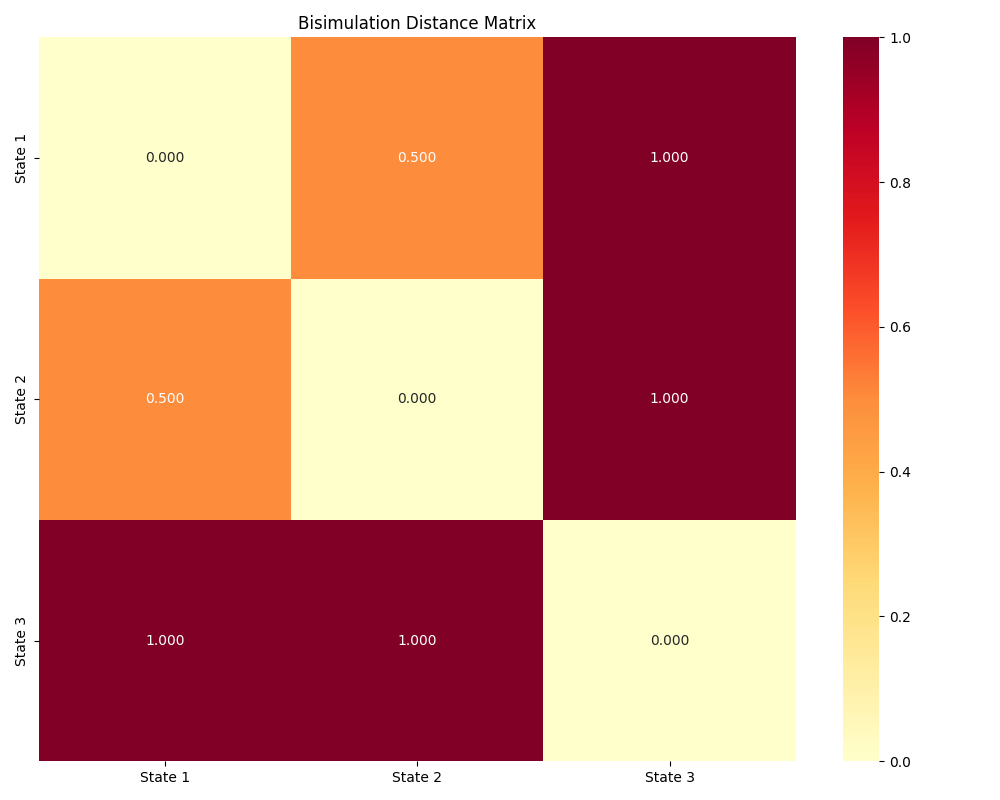
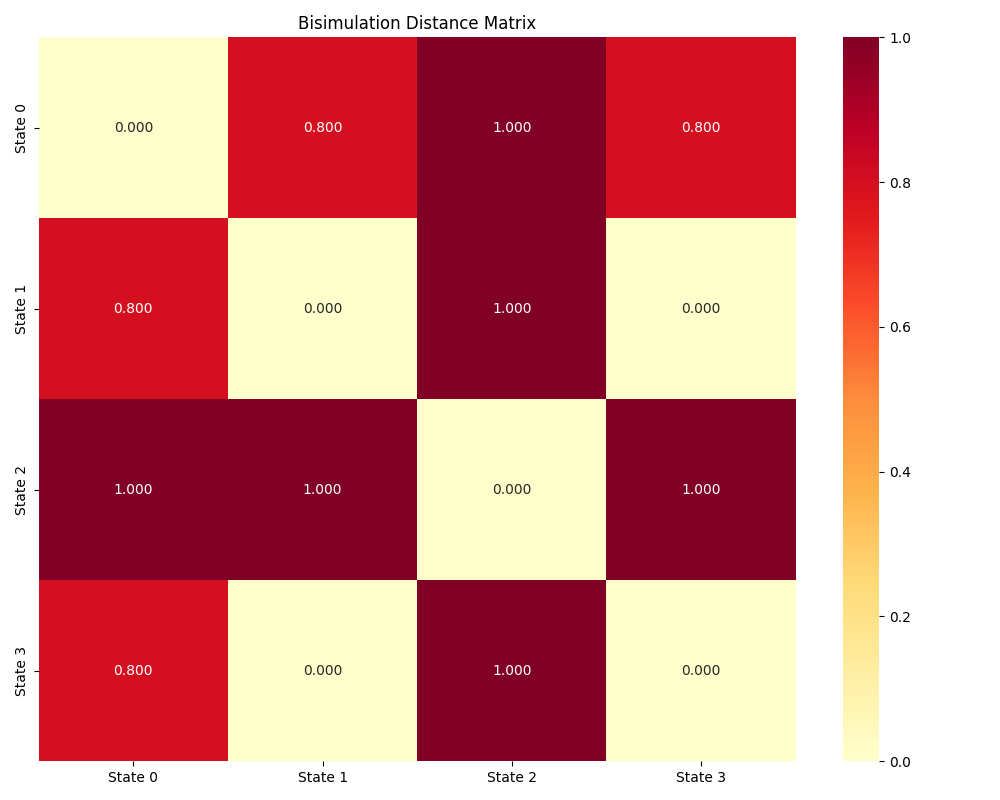
added distance gui and also fixed most diff states

diff --git a/app.py b/app.py
@@ -2,7 +2,6 @@ import streamlit as st
 import numpy as np
 import seaborn as sns
 import matplotlib.pyplot as plt
-from io import StringIO
 from demo import (
     bisimulation_distance_matrix,
     input_probabilistic_transition_system,
@@ -10,20 +9,66 @@ from demo import (
 )
 
 st.set_page_config(page_title="PTS Bisimulation Tool", layout="wide")
-st.title("📊 Probabilistic Bisimulation Distance Calculator")
+st.title("📊 Distance Calculator for Diss")
 
-uploaded_file = st.file_uploader("Upload your transition matrix file (.txt)", type="txt")
+input_mode = st.radio("Select Input Mode:", ["Upload File", "Manual Input"])
 
-if uploaded_file:
-    content = uploaded_file.read().decode("utf-8")
-    temp_path = "temp_input.txt"
-    with open(temp_path, "w") as f:
-        f.write(content)
+T = Term = labels = None
 
+if input_mode == "Upload File":
+    uploaded_file = st.file_uploader("Upload your transition matrix file (.txt)", type="txt")
+    if uploaded_file:
+        content = uploaded_file.read().decode("utf-8")
+        temp_path = "temp_input.txt"
+        with open(temp_path, "w") as f:
+            f.write(content)
+        try:
+            T, Term, labels = input_probabilistic_transition_system(filename=temp_path, use_file=True)
+            st.success("File successfully loaded and parsed.")
+        except Exception as e:
+            st.error(f"Error loading file: {e}")
+
+elif input_mode == "Manual Input":
+    st.markdown("### Define Transition Matrix")
+    n = st.number_input("Number of states", min_value=2, max_value=10, step=1)
+    matrix = []
+    valid = True
+    all_labels_filled = True  # <-- declare early to avoid NameError
+
+    for i in range(n):
+        row_input = st.text_input(f"Transition probabilities from State {i+1}", key=f"row_{i}")
+        try:
+            row_vals = list(map(float, row_input.strip().split()))
+            if len(row_vals) != n or not np.isclose(sum(row_vals), 1.0):
+                raise ValueError()
+            matrix.append(row_vals)
+        except:
+            st.error(f"Row {i+1} must have {n} numbers summing to 1.")
+            valid = False
+
+    Term = [st.selectbox(f"Is State {i+1} terminating?", [0, 1], key=f"term_{i}") for i in range(n)]
+
+    if valid:
+        T = np.array(matrix)
+        labels = {}
+        for i in range(n):
+            for j in range(n):
+                if T[i][j] > 0:
+                    label = st.text_input(f"Label for transition from S{i+1} to S{j+1}", key=f"label_{i}_{j}")
+                    if not label:
+                        all_labels_filled = False
+                    else:
+                        labels[(i, j)] = label
+
+        if not all_labels_filled:
+            st.warning("Please fill in all transition labels to view distance matrix and visualization.")
+        else:
+            st.success("Manual input accepted.")
+
+
+# ---- Main Calculation ---- #
+if T is not None and Term is not None and (input_mode == "Upload File" or all_labels_filled):
     try:
-        T, Term, labels = input_probabilistic_transition_system(filename=temp_path, use_file=True)
-
-        st.success("File successfully loaded and parsed.")
         D = bisimulation_distance_matrix(T, Term)
 
         st.subheader("Distance Matrix")
@@ -41,16 +86,18 @@ if uploaded_file:
         st.write(f"Maximum Distance: {np.max(D):.3f}")
         st.write(f"Average Distance: {np.mean(D):.3f}")
 
+        # Find most different states before modifying diagonal
+        max_idx = np.unravel_index(np.argmax(D), D.shape)
+        st.write(f"Most different states: S{max_idx[0]+1} and S{max_idx[1]+1} (distance: {D[max_idx]:.3f})")
+
+        # Now modify diagonal for finding most similar states
         np.fill_diagonal(D, np.inf)
         min_idx = np.unravel_index(np.argmin(D), D.shape)
-        max_idx = np.unravel_index(np.argmax(D), D.shape)
-
         st.write(f"Most similar states: S{min_idx[0]+1} and S{min_idx[1]+1} (distance: {D[min_idx]:.3f})")
-        st.write(f"Most different states: S{max_idx[0]+1} and S{max_idx[1]+1} (distance: {D[max_idx]:.3f})")
 
         st.markdown("### Bisimulation Structure Visualization")
         graphviz_src = generate_graphviz_source(T, Term, labels)
         st.graphviz_chart(graphviz_src)
 
     except Exception as e:
-        st.error(f"Error parsing or computing: {e}")
+        st.error(f"Computation error: {e}")

diff --git a/commandline.py b/commandline.py
@@ -174,33 +174,40 @@ def compute_minimized_transition_matrix(transition_matrix, equivalence_classes, 
     return minimized_T, minimized_labels
 
 
-def visualize_probabilistic_transition_system(matrix, terminating_classes, transition_labels, filename):
+def visualize_probabilistic_transition_system(matrix, terminating_classes, transition_labels, filename, is_minimized=False):
     """
     Visualize the Probabilistic Transition System (PTS) with correct label formatting.
+    is_minimized: if True, use "Class" terminology, otherwise use "State"
     """
     dot = Digraph(format='png')
+    prefix = "Class" if is_minimized else "State"
 
     # Add nodes
     for i in range(len(matrix)):
         if terminating_classes[i]:
-            dot.node(f"Class {i}", f"Class {i}", shape='circle', style='filled', peripheries='2', color='lightblue')  
+            dot.node(f"{prefix} {i}", f"{prefix} {i}", shape='circle', style='filled', peripheries='2', color='lightblue')  
         else:
-            dot.node(f"Class {i}", f"Class {i}", shape='circle', style='filled', color='lightgreen')  
+            dot.node(f"{prefix} {i}", f"{prefix} {i}", shape='circle', style='filled', color='lightgreen')  
 
     # Add edges with transition probabilities and labels
     for (i, j), label in transition_labels.items():
+        # Skip drawing outgoing edges from terminating states
+        if terminating_classes[i]:
+            continue
+
         prob = matrix[i][j]
-        
+
         # Ensure label is treated correctly (single string or list of strings)
-        if isinstance(label, str):  # If it's a string, use as is
+        if isinstance(label, str):
             label_text = label
-        elif isinstance(label, list):  # If it's a list, join properly
+        elif isinstance(label, list):
             label_text = ", ".join(label)
-        else:  # Fallback conversion
+        else:
             label_text = str(label)
 
-        dot.edge(f"Class {i}", f"Class {j}", label=f"{label_text} ({prob:.2f})")
+        dot.edge(f"{prefix} {i}", f"{prefix} {j}", label=f"{label_text} ({prob:.2f})")
 
+    # ✅ Ensure rendering and viewing the diagram
     dot.render(filename, view=True)
 
 if __name__ == "__main__":
@@ -223,16 +230,15 @@ if __name__ == "__main__":
     minimized_T, minimized_labels = compute_minimized_transition_matrix(transition_matrix, equivalence_classes, state_class_map, transition_labels)
 
     # Step 6: Visualization
-    visualize_probabilistic_transition_system(transition_matrix, terminating_vector, transition_labels, "original_PTS")
-    visualize_probabilistic_transition_system(minimized_T, list(class_termination_status.values()), minimized_labels, "minimized_PTS")
-
+    visualize_probabilistic_transition_system(transition_matrix, terminating_vector, transition_labels, "original_PTS", is_minimized=False)
+    visualize_probabilistic_transition_system(minimized_T, list(class_termination_status.values()), minimized_labels, "minimized_PTS", is_minimized=True)
 
     print("\nOriginal Transition Matrix:")
     print(transition_matrix)
 
     print("\nEquivalence Classes:")
     for class_id, class_states in equivalence_classes.items():
-        print(f"Class {class_id}: {class_states}, Terminating: {class_termination_status[class_id]}")
+        print(f"Class {class_id}: States {class_states}, Terminating: {class_termination_status[class_id]}")
 
     print("\nMinimized Transition Matrix:")
     print(minimized_T)

diff --git a/demo.py b/demo.py
@@ -234,3 +234,6 @@ if __name__ == "__main__":
         print(f"Error: {str(e)}")
     except Exception as e:
         print(f"An unexpected error occurred: {str(e)}")
+
+
+
